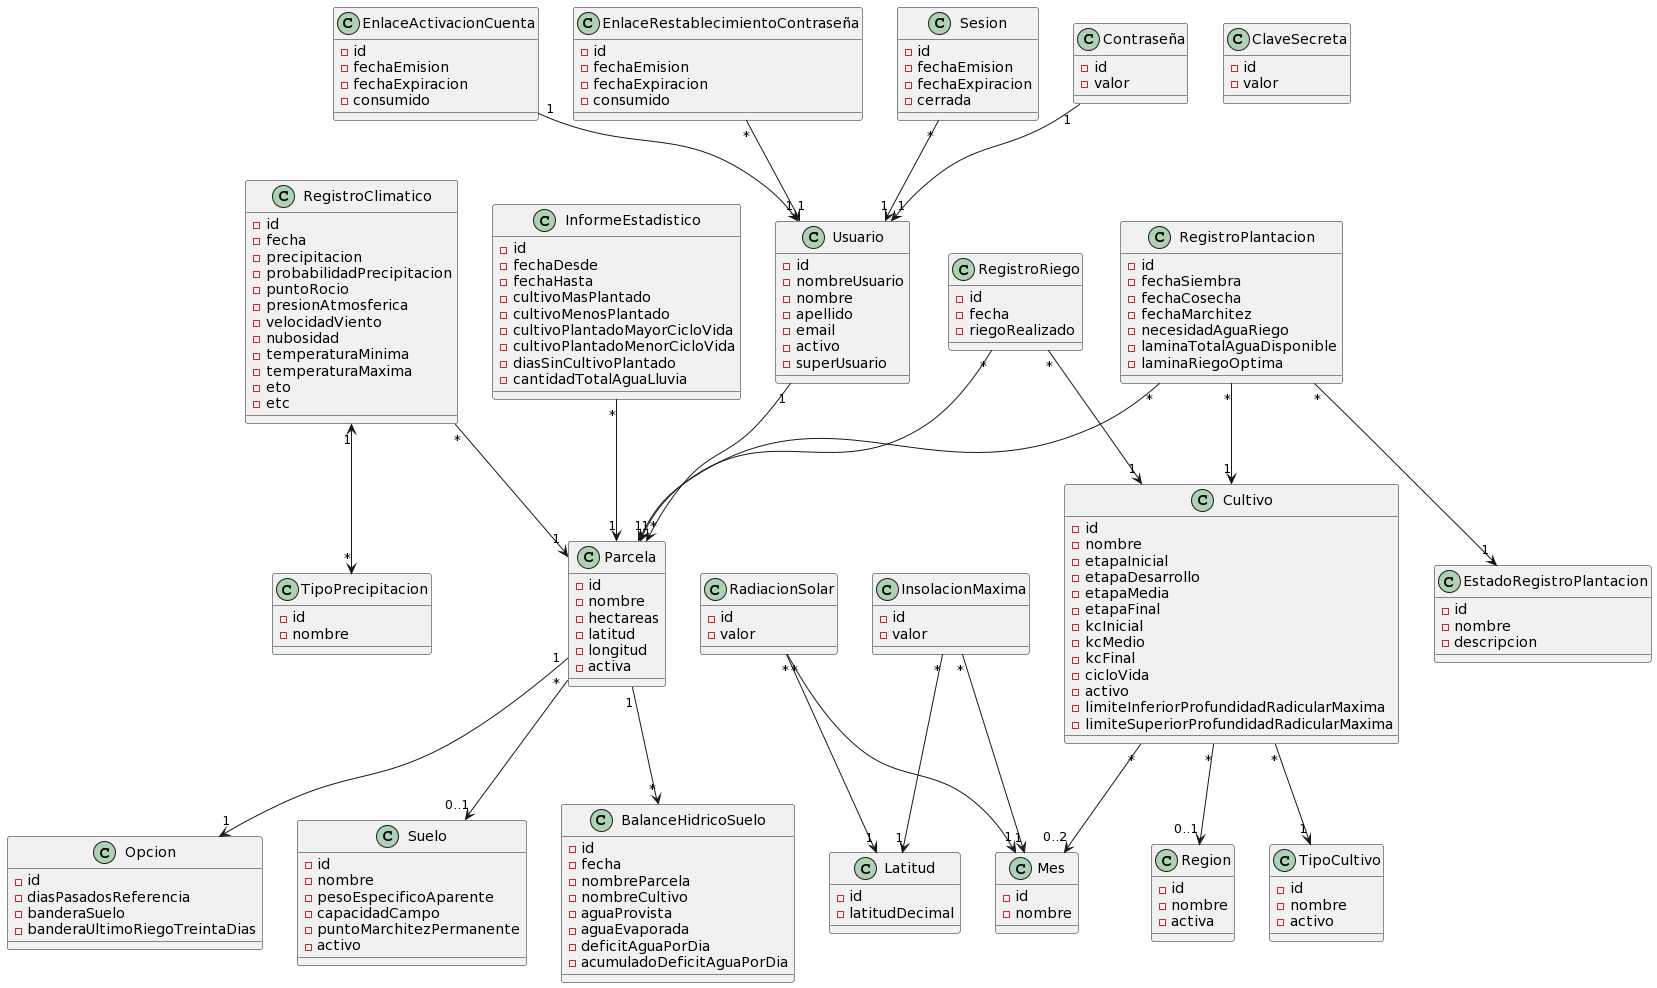
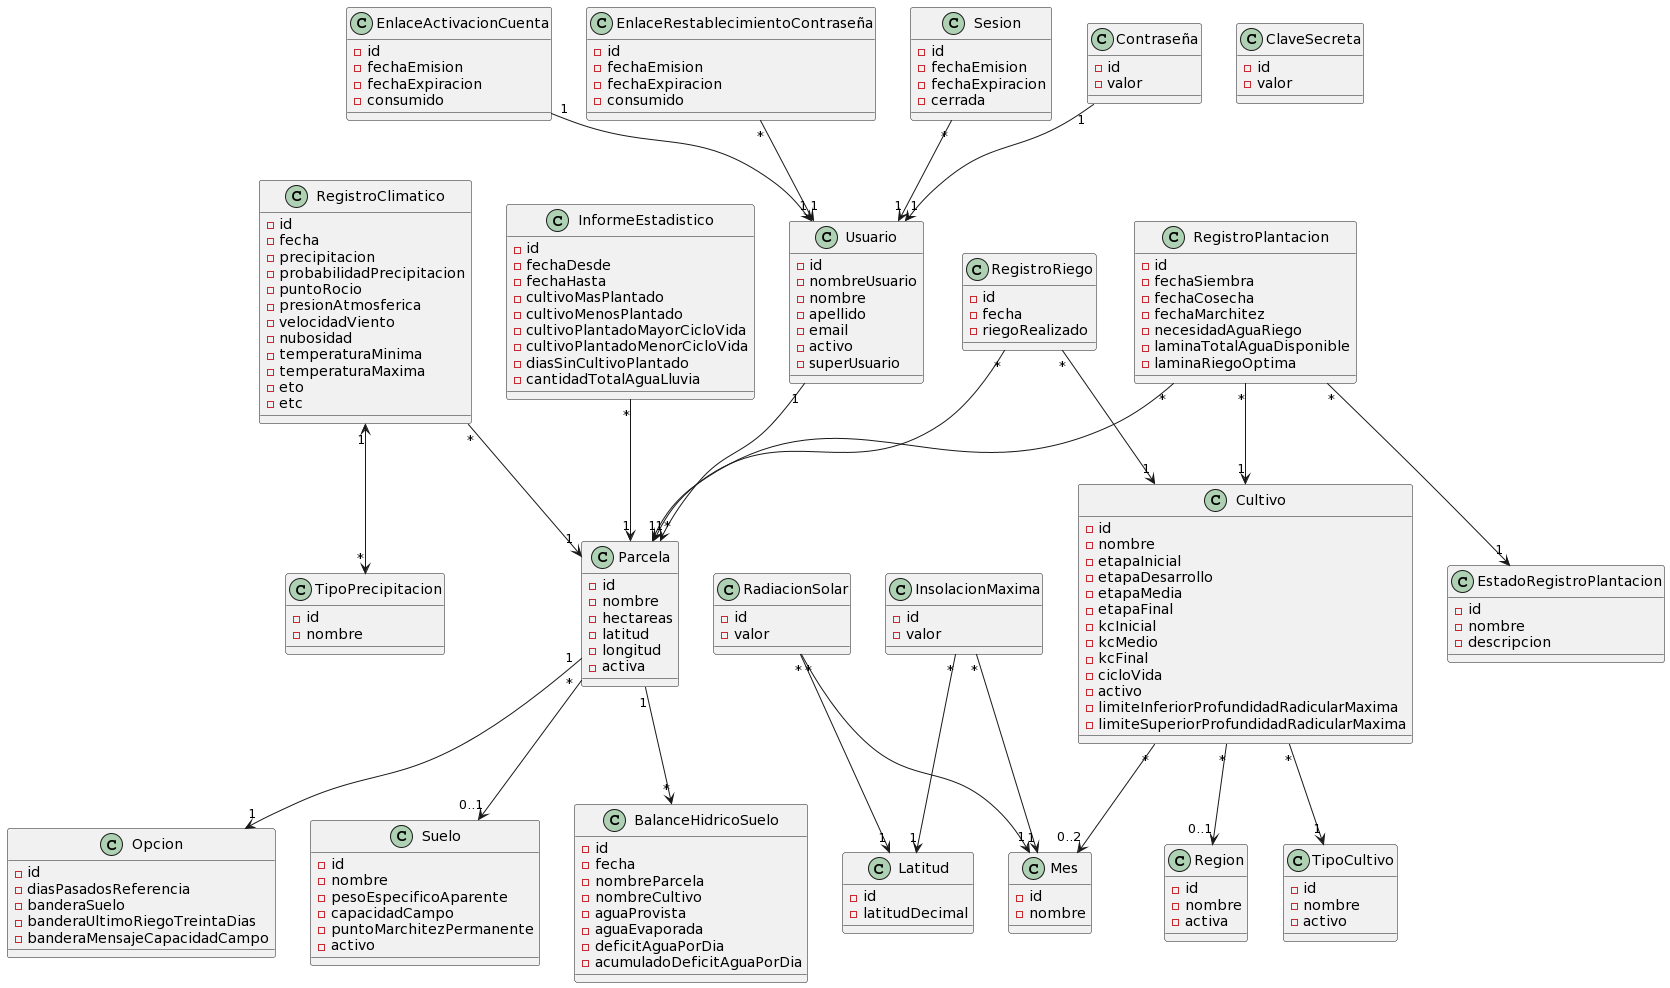
Tarea #311 terminada

diff --git a/app/public/controllers/user/PlantingRecordCtrl.js b/app/public/controllers/user/PlantingRecordCtrl.js
@@ -189,6 +189,24 @@ app.controller(
 
           $scope.data = data;
 
+          /*
+          Si el registro de plantacion creado y devuelto por la aplicacion
+          del lado servidor tiene el estado "En desarrollo" o el estado
+          "Desarrollo optimo" y la opcion de la parcela a la que pertenece
+          tiene la bandera flagMessageFieldCapacity activa, la aplicacion
+          muestra el mensaje dado
+          */
+          if (($scope.data.status.name === IN_DEVELOPMENT || $scope.data.status.name === OPTIMAL_DEVELOPMENT_STATE) &&
+            $scope.data.parcel.option.flagMessageFieldCapacity) {
+            var advice = "Recuerde que un día antes de la fecha de siembra de un cultivo se debe llenar de agua el suelo, en el que realizará la "
+              + "siembra, para que en la fecha de siembra el nivel de humedad del suelo esté en capacidad de campo. Esto se debe a que la aplicación "
+              + "calcula la necesidad de agua de riego de un cultivo en la fecha actual como la cantidad de agua que se debe reponer para llevar el "
+              + "suelo, en el que está sembrado un cultivo, a capacidad de campo partiendo desde la condición de suelo a capacidad de campo en la "
+              + "fecha de siembra de un cultivo. Capacidad de campo es la condicion en la que un suelo está lleno de agua, pero no anegado. Puede "
+              + "deshabilitar este aviso en el formulario de opción de una parcela.";
+            alert(advice);
+          }
+
           if ($scope.data.seedDate != null) {
             $scope.data.seedDate = new Date($scope.data.seedDate);
           }

diff --git a/app/public/partials/user/parcel-option-form.html b/app/public/partials/user/parcel-option-form.html
@@ -137,6 +137,14 @@
                 </div>
             </div>
 
+            <div class="form-group">
+                <label for="flagMessageFieldCapacity" class="col-md-2 control-label">Mostrar aviso de riego del suelo a
+                    capacidad de campo antes de la siembra de un cultivo</label>
+                <div class="col-md-3">
+                    <input type="checkbox" id="flagMessageFieldCapacity" ng-model="data.flagMessageFieldCapacity">
+                </div>
+            </div>
+
             <!-- <div class="form-group">
                 <label for="flagLastIrrigationThirtyDays" class="col-md-2 control-label">Calcular la necesidad de agua
                     de riego de un cultivo en la fecha actual desde el último riego registrado dentro de los 30 días

diff --git a/app/src/model/Option.java b/app/src/model/Option.java
@@ -26,6 +26,9 @@ public class Option {
     @Column(name = "FLAG_LAST_IRRIGATION_THIRTY_DAYS", nullable = false)
     private boolean flagLastIrrigationThirtyDays;
 
+    @Column(name = "FLAG_MESSAGE_FIELD_CAPACITY", nullable = false)
+    private boolean flagMessageFieldCapacity;
+
     public Option() {
 
     }
@@ -60,6 +63,14 @@ public class Option {
 
     public void setFlagLastIrrigationThirtyDays(boolean flagLastIrrigationThirtyDays) {
         this.flagLastIrrigationThirtyDays = flagLastIrrigationThirtyDays;
+    }
+
+    public boolean getFlagMessageFieldCapacity() {
+        return flagMessageFieldCapacity;
+    }
+
+    public void setFlagMessageFieldCapacity(boolean flagMessageFieldCapacity) {
+        this.flagMessageFieldCapacity = flagMessageFieldCapacity;
     }
 
 }

diff --git a/app/src/stateless/OptionServiceBean.java b/app/src/stateless/OptionServiceBean.java
@@ -54,6 +54,7 @@ public class OptionServiceBean {
     public Option create() {
         Option newOption = new Option();
         newOption.setPastDaysReference(UPPER_LIMIT_PAST_DAYS);
+        newOption.setFlagMessageFieldCapacity(true);
         entityManager.persist(newOption);
 
         return newOption;
@@ -74,6 +75,7 @@ public class OptionServiceBean {
             givenOption.setPastDaysReference(modifiedOption.getPastDaysReference());
             givenOption.setSoilFlag(modifiedOption.getSoilFlag());
             givenOption.setFlagLastIrrigationThirtyDays(modifiedOption.getFlagLastIrrigationThirtyDays());
+            givenOption.setFlagMessageFieldCapacity(modifiedOption.getFlagMessageFieldCapacity());
             return givenOption;
         }
 
